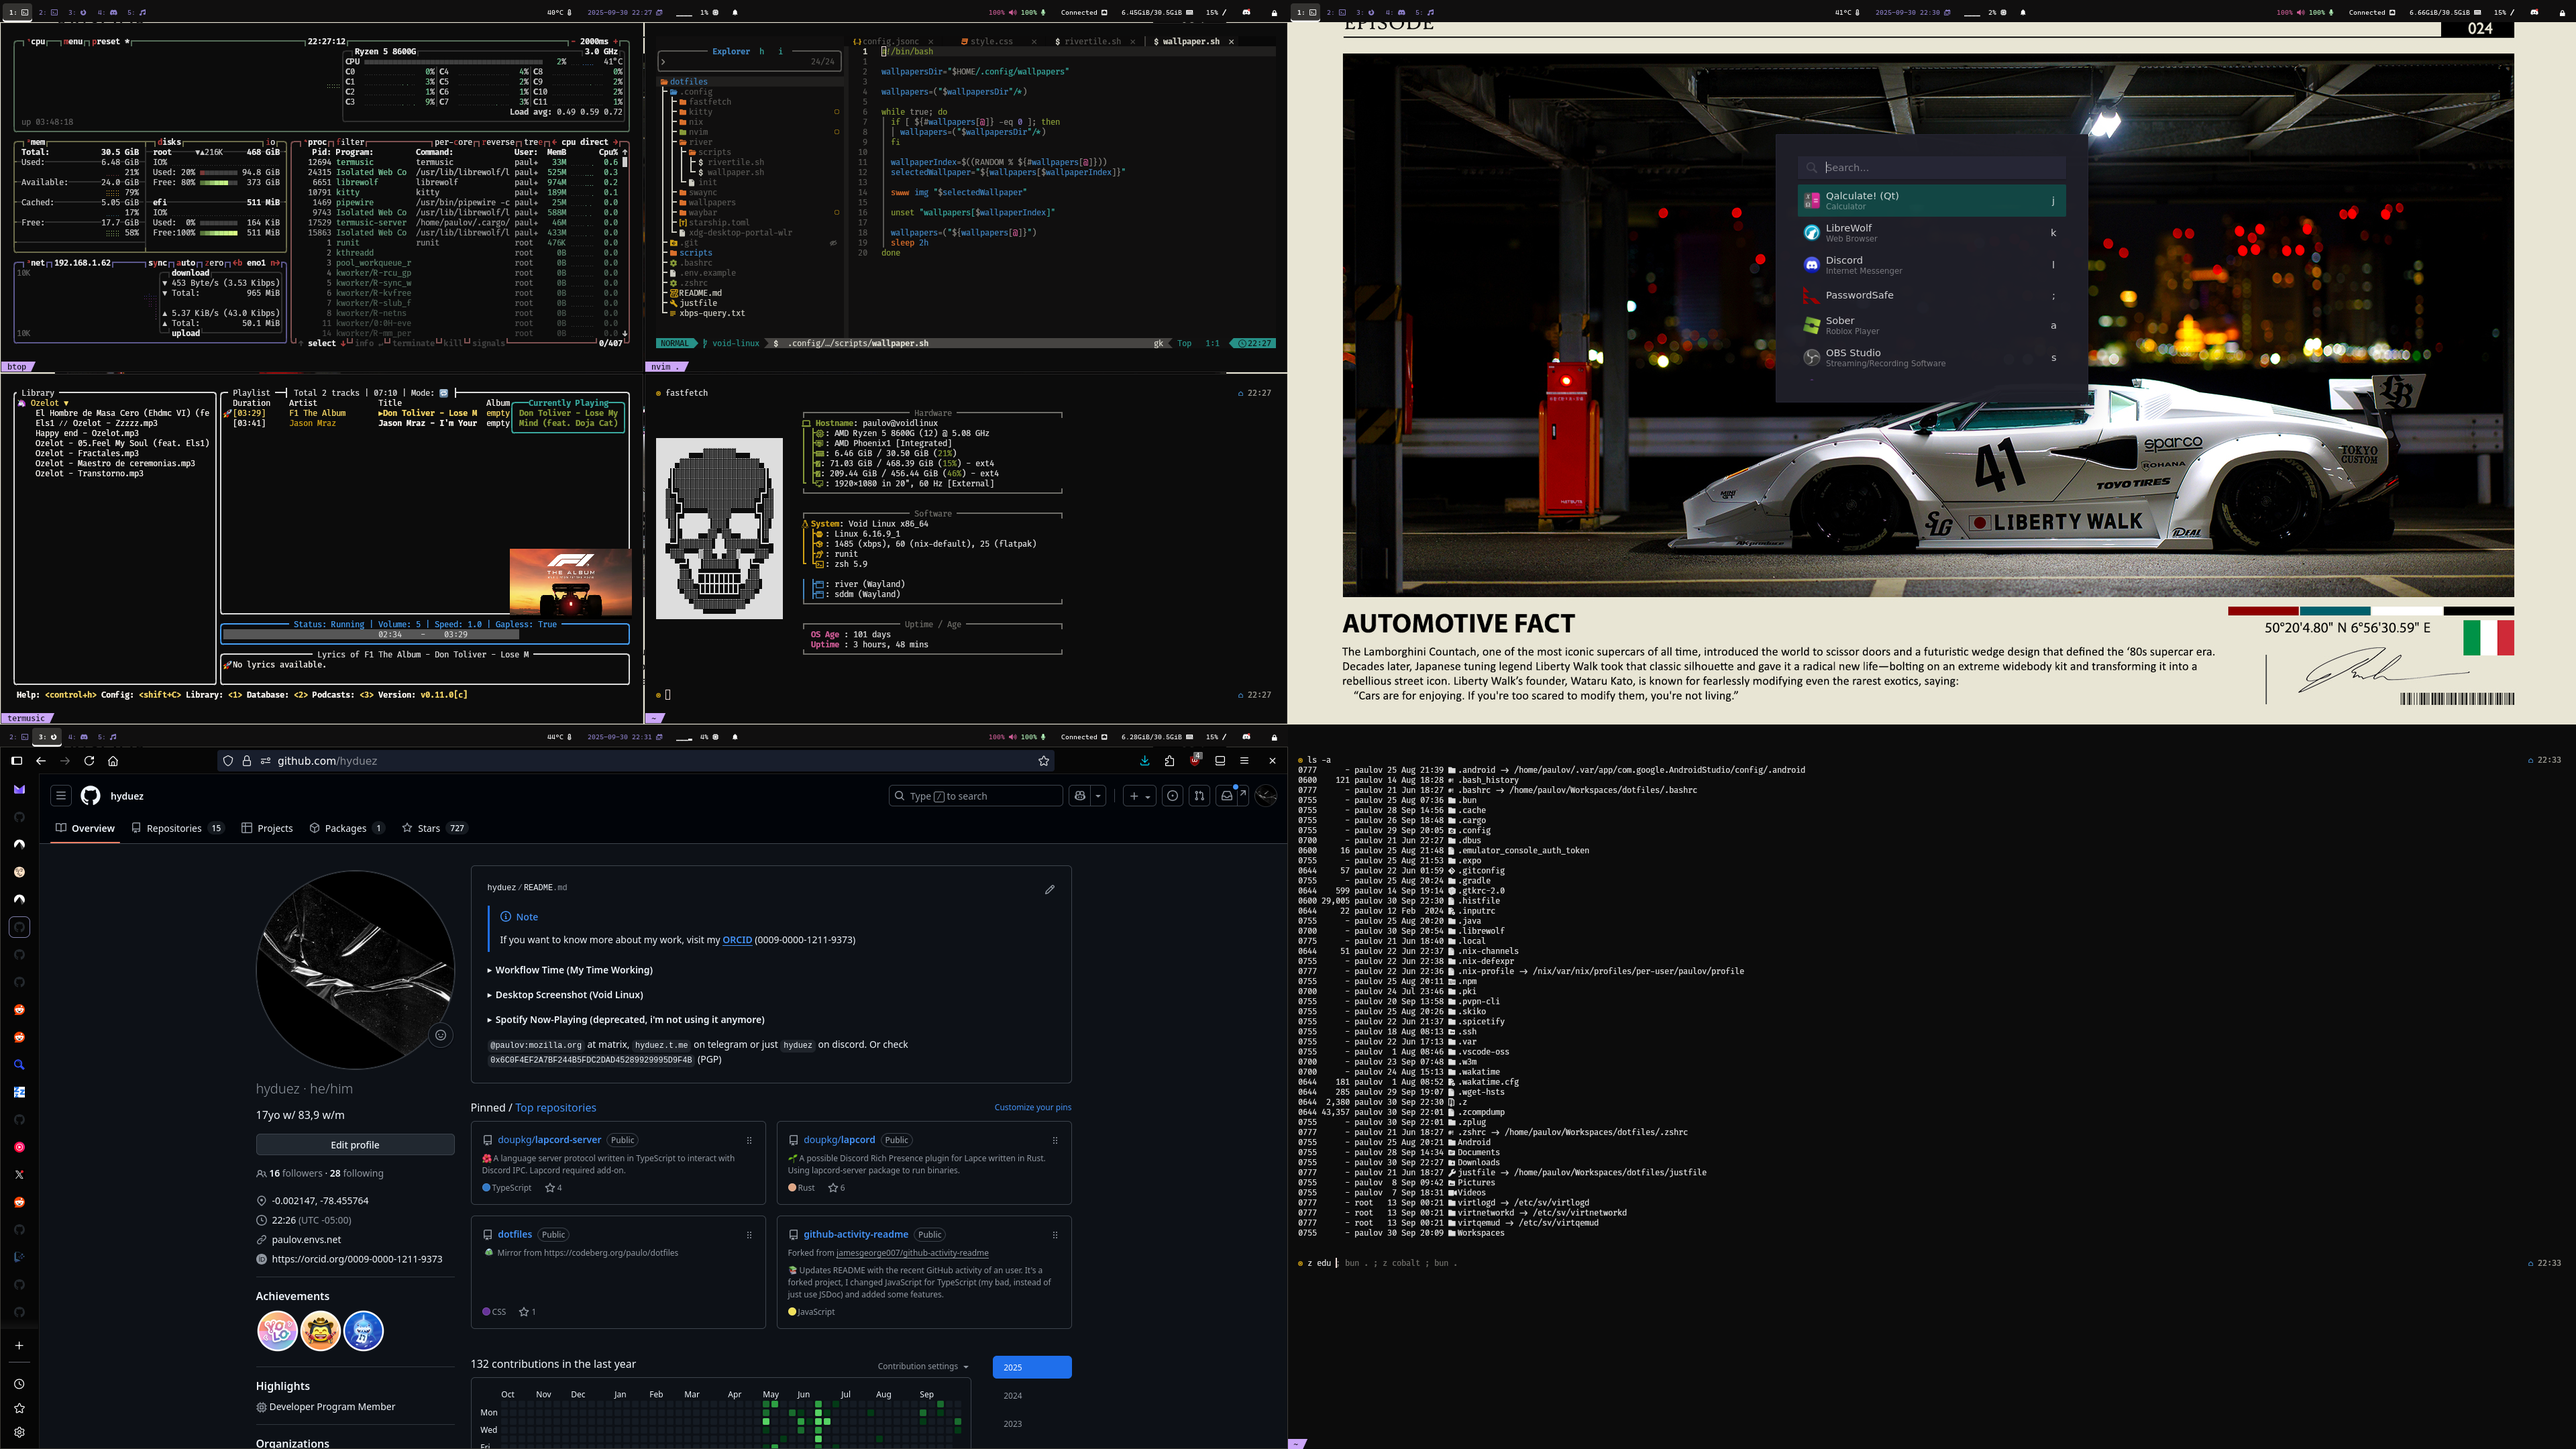
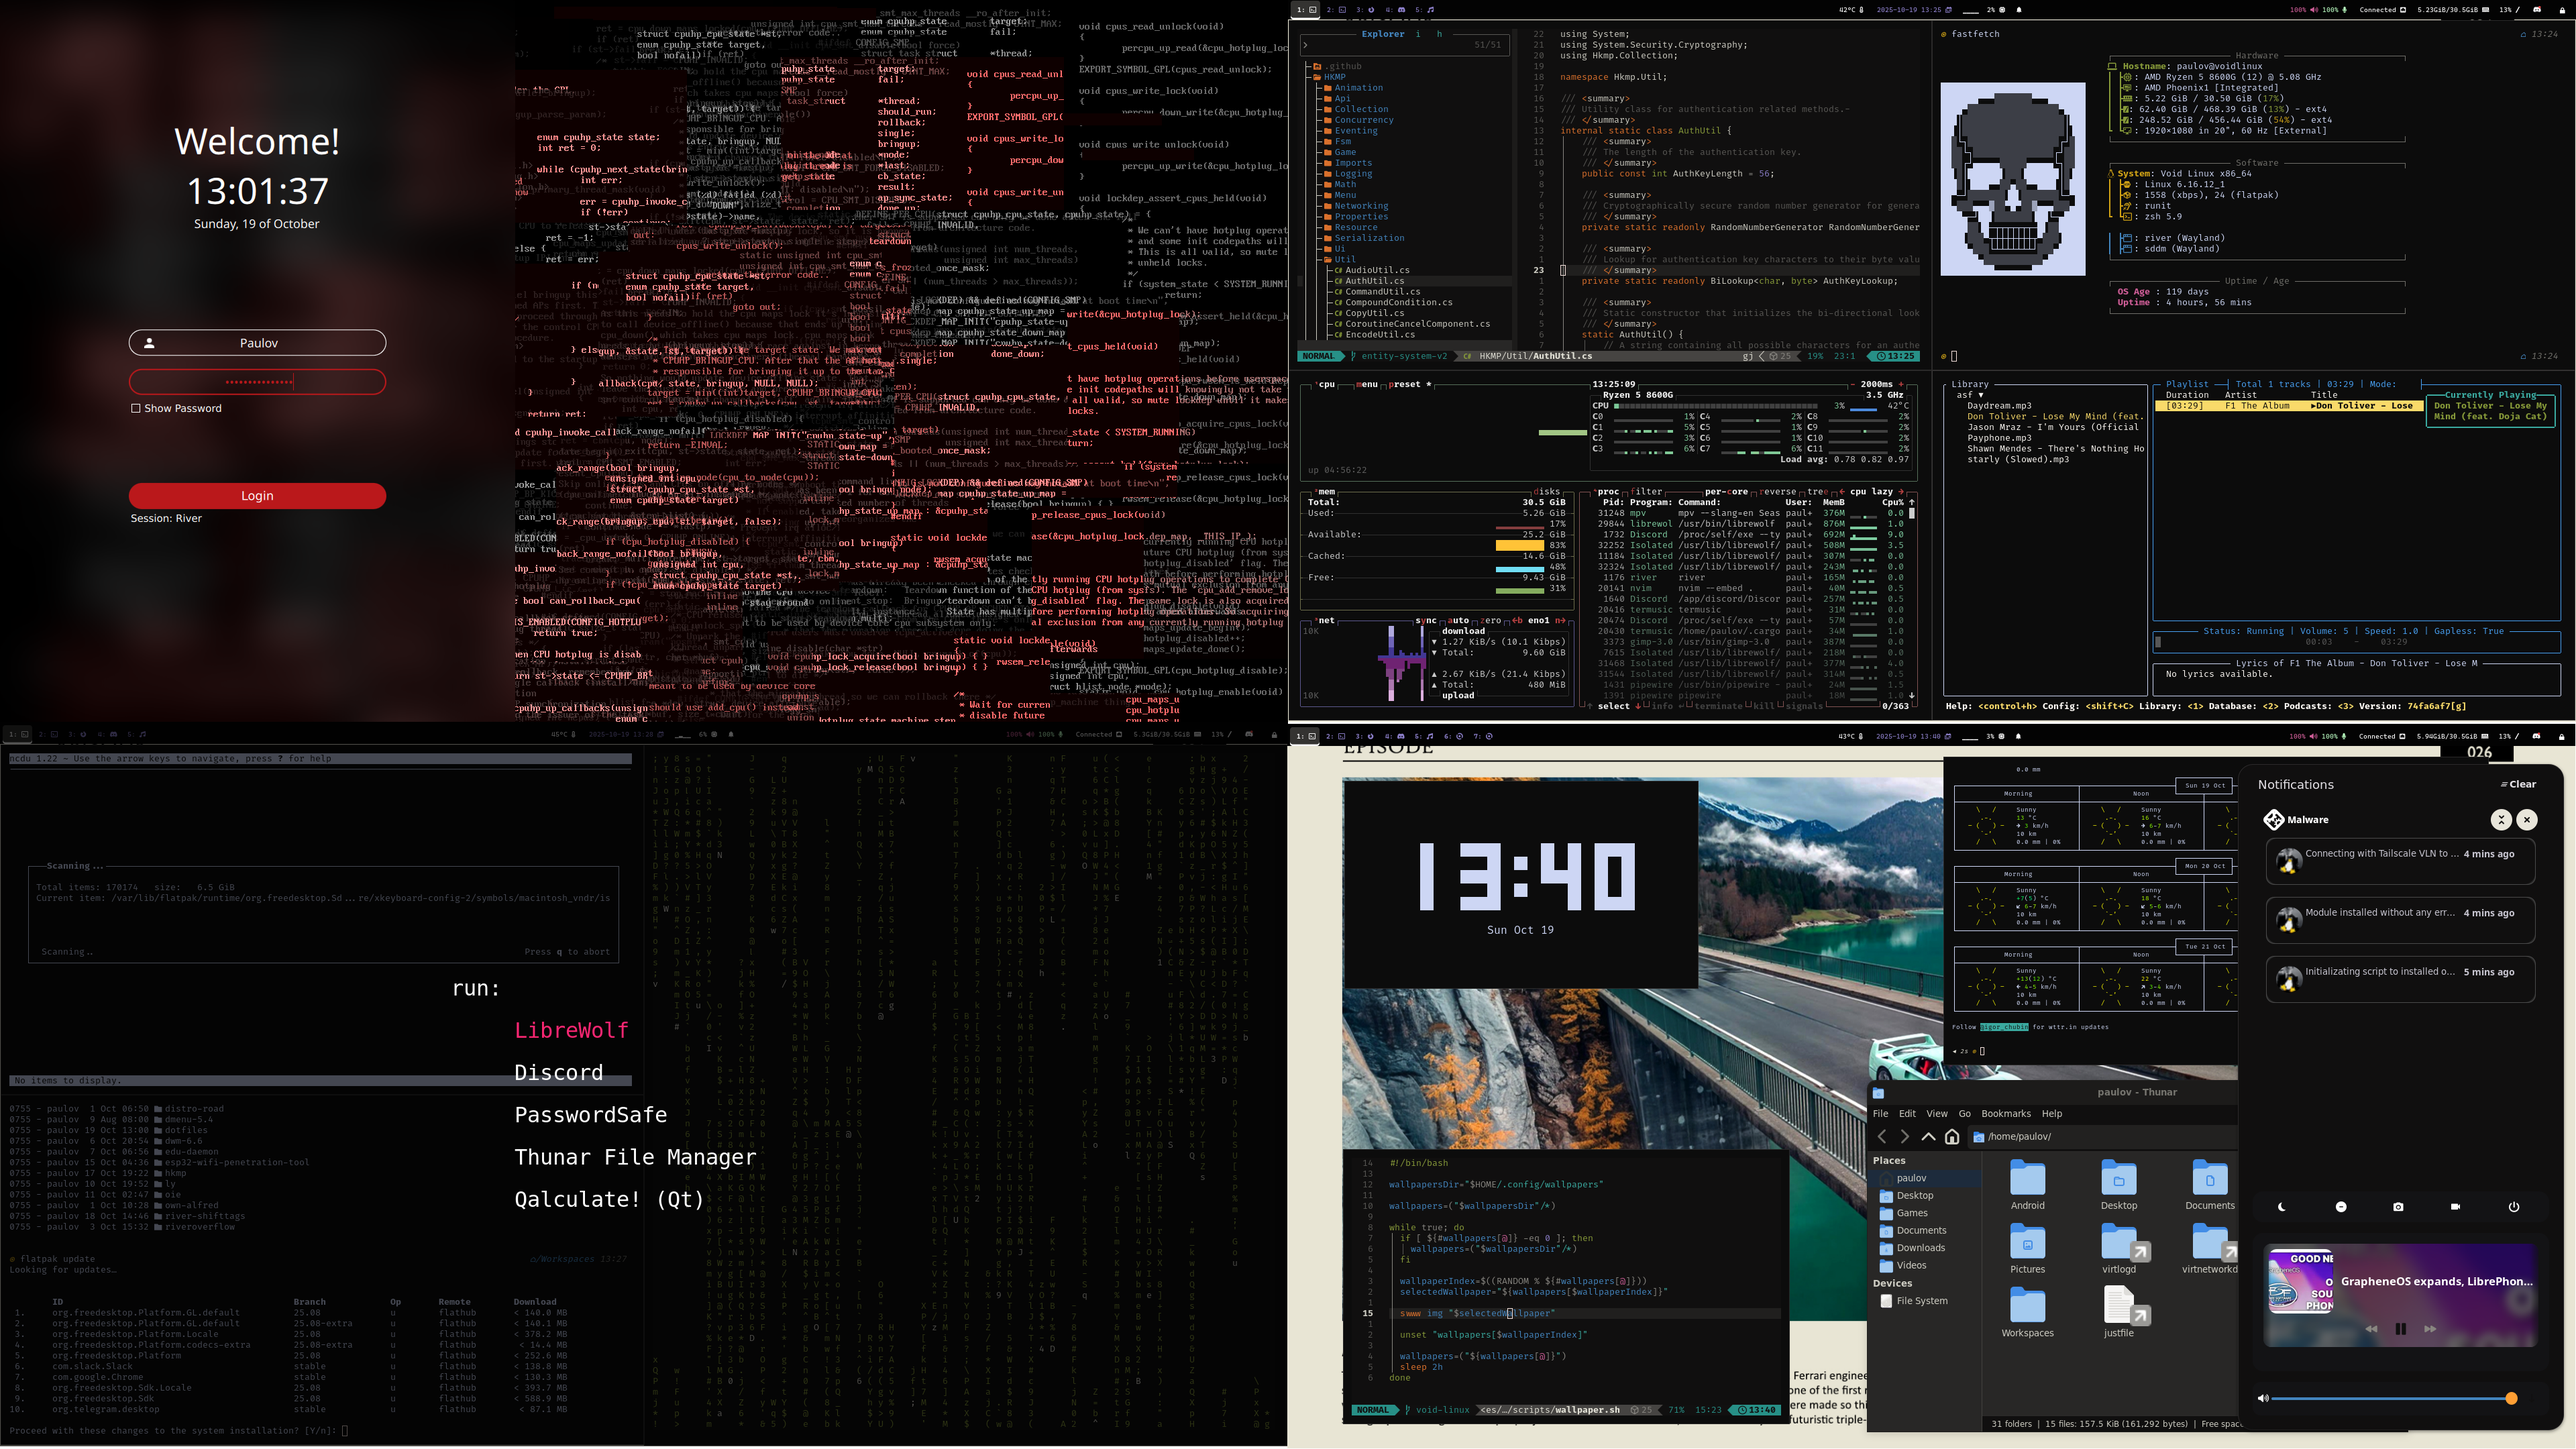
feat: update ss and update readme

diff --git a/.config/st/config.h b/.config/st/config.h
@@ -195,7 +195,7 @@ static MouseShortcut mshortcuts[] = {
 };
 
 /* Internal keyboard shortcuts. */
-#define MODKEY Mod1Mask
+#define MODKEY ControlMask
 #define TERMMOD (ControlMask | ShiftMask)
 
 static Shortcut shortcuts[] = {

diff --git a/README.md b/README.md
@@ -19,19 +19,9 @@ With River (Wayland) I use:
 - slurp
 - swww
 - pipewire
-- rofi
-- dunst
+- tofi (drun mode)
+- swaync
 - wl-clipboard
-
-With BSPWM (Xorg):
-- polybar
-- sxhkd
-- rofi
-- dunst
-- clipmenud
-- pipewire
-
-# WIP
 
 <details>
   <summary>Old Content</summary>
